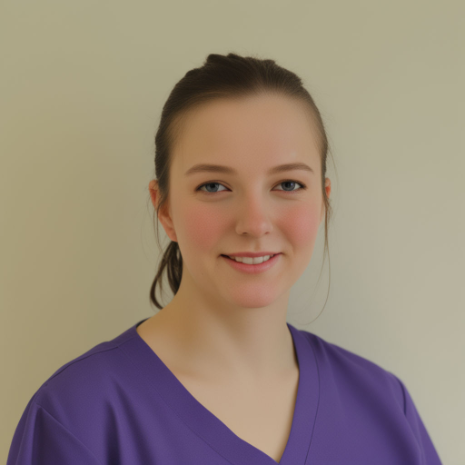
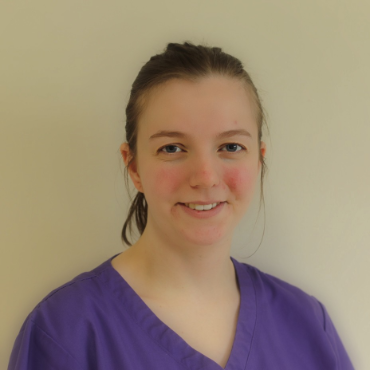
photos

diff --git a/about.html b/about.html
@@ -223,7 +223,7 @@
     >
       <div class="container">
         <div class="row g-5">
-          <div class="col-lg-7">
+          <div class="col-lg-5">
             <div class="section-title mb-4">
               <h5
                 class="position-relative d-inline-block text-primary text-uppercase"
@@ -288,14 +288,13 @@
               >Ask us a question !</a
             >
           </div>
-          <div class="col-lg-5" style="min-height: 500px">
+          <div class="col-lg-7" style="min-height: 500px">
             <div class="position-relative h-100">
               <img
-                class="position-absolute w-100 h-100 rounded wow zoomIn"
+                class="position-absolute rounded w-100 wow zoomIn"
                 data-wow-delay="0.9s"
-                src="img/kid 2.webp"
+                src="img/upscale e&d-Photoroom.png-Photoroom.png"
                 alt="picture of Emma and Deji"
-                style="object-fit: cover"
               />
             </div>
           </div>
